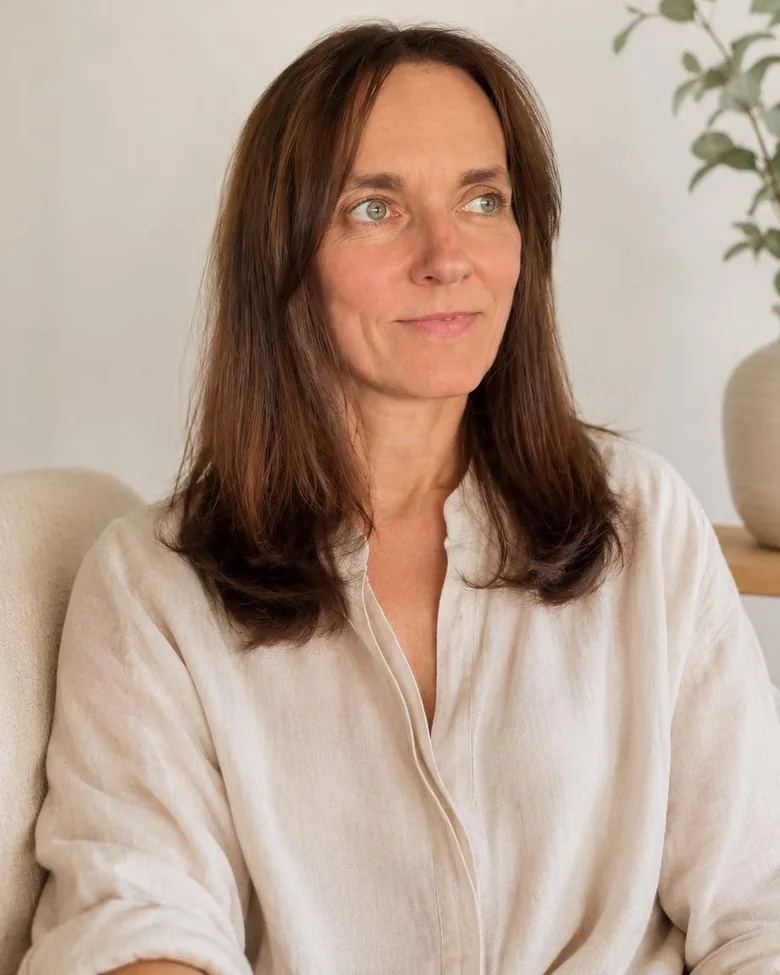
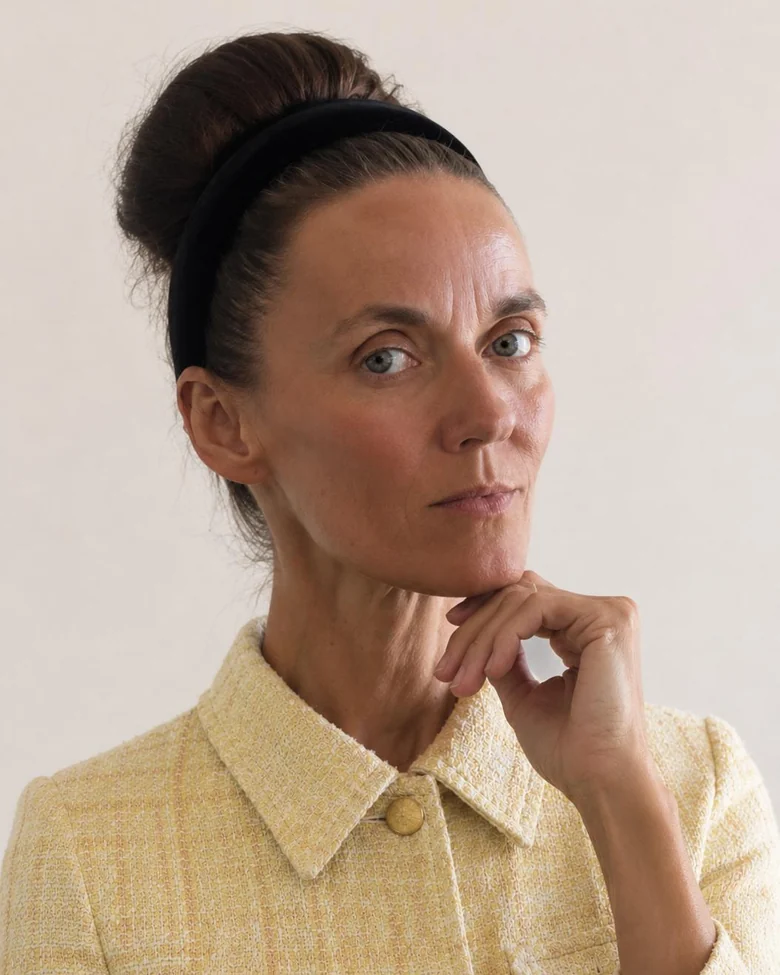
Card refresh + photo changes: pills, 2x2 creed, Lina 2, roomier mobile
- Conditions ("whole person") → elegant wrapping pills instead of sparse
  centered boxes (also fixes the cramped forced-2col phone layout)
- "What ALBA stands for" creed → balanced 2x2, no orphaned card
- "Good care begins" help cards → drop the SVG checkmarks, add the site's
  subtle bronze underline accent
- Phone: single-column help/creed, tighter pill spacing — uncramped
- Hero: remove Lina's photo, restore ALBA logo in the calling-card
- About portrait → new photo (Lina 2), cropped to 4:5

diff --git a/css/styles.css b/css/styles.css
@@ -2402,3 +2402,63 @@ body { font-size: var(--font-base); }
   aspect-ratio: 16 / 10;
 }
 .wellbeing-figure img { width: 100%; height: 100%; object-fit: cover; display: block; }
+
+/* ===================================================================
+   CARD REFRESH 2026-07-12 — balanced grids, icon-free cards,
+   roomier phone layout. Shared → applies to /, /lt/, /ru/.
+   =================================================================== */
+
+/* Conditions ("Care shaped around the whole person") — elegant pills
+   instead of sparse boxes; wrap naturally, no icons */
+.principles-grid {
+  display: flex;
+  flex-wrap: wrap;
+  gap: 0.7rem;
+  justify-content: center;
+}
+.principle {
+  min-height: 0;
+  padding: 0.72rem 1.45rem;
+  border-radius: 999px;
+  font-size: 1.14rem;
+}
+.principle::before { display: none; }
+.principle:hover {
+  transform: translateY(-3px);
+  background: linear-gradient(135deg, var(--bronze) 0%, var(--bronze-deep) 100%);
+  color: var(--cream-soft);
+  box-shadow: var(--shadow-md);
+}
+
+/* What ALBA stands for — balanced 2x2 instead of an orphaned 3+1 */
+.creed-list {
+  grid-template-columns: repeat(auto-fit, minmax(300px, 1fr));
+  max-width: 760px;
+  gap: 1rem;
+}
+
+/* Good care begins... — icon-free cards, subtle bronze underline (matches creed) */
+.help-item {
+  display: block;
+  position: relative;
+  padding: 1.4rem 1.5rem 1.7rem;
+}
+.help-item span { display: block; font-size: 1.28rem; }
+.help-item::after {
+  content: "";
+  position: absolute;
+  left: 1.5rem; bottom: 1.35rem;
+  width: 28px; height: 2px;
+  background: var(--bronze-deep);
+  opacity: 0.5;
+  border-radius: 2px;
+}
+
+/* Roomier, uncramped phone layout for the three card grids */
+@media (max-width: 600px) {
+  .help-grid, .creed-list { grid-template-columns: 1fr; gap: 0.85rem; }
+  .creed-list { max-width: none; }
+  .help-item, .creed-item { padding: 1.2rem 1.3rem; }
+  .principles-grid { gap: 0.55rem; }
+  .principle { font-size: 1.04rem; padding: 0.6rem 1.15rem; }
+}

diff --git a/index.html b/index.html
@@ -133,7 +133,7 @@
         </div>
         <div class="hero-visual reveal">
           <aside class="calling-card" aria-label="About Lina at a glance">
-            <img class="cc-photo" src="/Gallery/img/lina-portrait.webp" alt="Lina Simavičiūtė (Alba), professional live-in carer" width="780" height="975" loading="eager" decoding="async" />
+            <img class="cc-logo" src="/Gallery/Logo/alba-wellbeing-logo-web.png" alt="ALBA Wellbeing" width="991" height="813" loading="eager" decoding="async" />
             <p class="cc-name">Lina Simavičiūtė</p>
             <p class="cc-caption">Professional live-in carer · known as Alba</p>
             <p class="cc-lead">Together, creating a happy we.</p>
@@ -273,11 +273,11 @@
           <p class="section-intro">My role is never to take away independence. It is to help create the conditions where the person feels safe, respected and able to make their own right choices.</p>
         </div>
         <div class="help-grid">
-          <div class="help-item reveal"><span class="help-tick" aria-hidden="true"><svg viewBox="0 0 24 24" fill="none" stroke="currentColor" stroke-width="2.4" stroke-linecap="round" stroke-linejoin="round"><path d="M5 12l5 5 9-11"/></svg></span><span>Safe, comfortable and at home</span></div>
-          <div class="help-item reveal"><span class="help-tick" aria-hidden="true"><svg viewBox="0 0 24 24" fill="none" stroke="currentColor" stroke-width="2.4" stroke-linecap="round" stroke-linejoin="round"><path d="M5 12l5 5 9-11"/></svg></span><span>Respected, never a diagnosis or an age</span></div>
-          <div class="help-item reveal"><span class="help-tick" aria-hidden="true"><svg viewBox="0 0 24 24" fill="none" stroke="currentColor" stroke-width="2.4" stroke-linecap="round" stroke-linejoin="round"><path d="M5 12l5 5 9-11"/></svg></span><span>Understood and accepted</span></div>
-          <div class="help-item reveal"><span class="help-tick" aria-hidden="true"><svg viewBox="0 0 24 24" fill="none" stroke="currentColor" stroke-width="2.4" stroke-linecap="round" stroke-linejoin="round"><path d="M5 12l5 5 9-11"/></svg></span><span>Free to make their own choices</span></div>
-          <div class="help-item reveal"><span class="help-tick" aria-hidden="true"><svg viewBox="0 0 24 24" fill="none" stroke="currentColor" stroke-width="2.4" stroke-linecap="round" stroke-linejoin="round"><path d="M5 12l5 5 9-11"/></svg></span><span>Independent, for as long as possible</span></div>
+          <div class="help-item reveal"><span>Safe, comfortable and at home</span></div>
+          <div class="help-item reveal"><span>Respected, never a diagnosis or an age</span></div>
+          <div class="help-item reveal"><span>Understood and accepted</span></div>
+          <div class="help-item reveal"><span>Free to make their own choices</span></div>
+          <div class="help-item reveal"><span>Independent, for as long as possible</span></div>
         </div>
       </div>
     </section>

diff --git a/lt/index.html b/lt/index.html
@@ -130,7 +130,7 @@
         </div>
         <div class="hero-visual reveal">
           <aside class="calling-card" aria-label="Trumpai apie Liną">
-            <img class="cc-photo" src="/Gallery/img/lina-portrait.webp" alt="Lina Simavičiūtė (Alba), profesionali kartu gyvenanti slaugytoja" width="780" height="975" loading="eager" decoding="async" />
+            <img class="cc-logo" src="/Gallery/Logo/alba-wellbeing-logo-web.png" alt="ALBA Wellbeing" width="991" height="813" loading="eager" decoding="async" />
             <p class="cc-name">Lina Simavičiūtė</p>
             <p class="cc-caption">Profesionali kartu gyvenanti slaugytoja · žinoma kaip Alba</p>
             <p class="cc-lead">Kartu kuriame laimingą bendrystę.</p>
@@ -268,11 +268,11 @@
           <p class="section-intro">Mano vaidmuo niekada nėra atimti savarankiškumą. Jis yra padėti sukurti sąlygas, kuriomis žmogus jaučiasi saugus, gerbiamas ir gali priimti sau teisingus sprendimus.</p>
         </div>
         <div class="help-grid">
-          <div class="help-item reveal"><span class="help-tick" aria-hidden="true"><svg viewBox="0 0 24 24" fill="none" stroke="currentColor" stroke-width="2.4" stroke-linecap="round" stroke-linejoin="round"><path d="M5 12l5 5 9-11"/></svg></span><span>Saugus, jaukus ir kaip namie</span></div>
-          <div class="help-item reveal"><span class="help-tick" aria-hidden="true"><svg viewBox="0 0 24 24" fill="none" stroke="currentColor" stroke-width="2.4" stroke-linecap="round" stroke-linejoin="round"><path d="M5 12l5 5 9-11"/></svg></span><span>Gerbiamas, o ne diagnozė ar amžius</span></div>
-          <div class="help-item reveal"><span class="help-tick" aria-hidden="true"><svg viewBox="0 0 24 24" fill="none" stroke="currentColor" stroke-width="2.4" stroke-linecap="round" stroke-linejoin="round"><path d="M5 12l5 5 9-11"/></svg></span><span>Suprasti ir priimti</span></div>
-          <div class="help-item reveal"><span class="help-tick" aria-hidden="true"><svg viewBox="0 0 24 24" fill="none" stroke="currentColor" stroke-width="2.4" stroke-linecap="round" stroke-linejoin="round"><path d="M5 12l5 5 9-11"/></svg></span><span>Laisvas rinktis pats</span></div>
-          <div class="help-item reveal"><span class="help-tick" aria-hidden="true"><svg viewBox="0 0 24 24" fill="none" stroke="currentColor" stroke-width="2.4" stroke-linecap="round" stroke-linejoin="round"><path d="M5 12l5 5 9-11"/></svg></span><span>Savarankiškas kiek įmanoma ilgiau</span></div>
+          <div class="help-item reveal"><span>Saugus, jaukus ir kaip namie</span></div>
+          <div class="help-item reveal"><span>Gerbiamas, o ne diagnozė ar amžius</span></div>
+          <div class="help-item reveal"><span>Suprasti ir priimti</span></div>
+          <div class="help-item reveal"><span>Laisvas rinktis pats</span></div>
+          <div class="help-item reveal"><span>Savarankiškas kiek įmanoma ilgiau</span></div>
         </div>
       </div>
     </section>

diff --git a/ru/index.html b/ru/index.html
@@ -130,7 +130,7 @@
         </div>
         <div class="hero-visual reveal">
           <aside class="calling-card" aria-label="Кратко о Лине">
-            <img class="cc-photo" src="/Gallery/img/lina-portrait.webp" alt="Лина Симавичюте (Альба), профессиональная сиделка с проживанием" width="780" height="975" loading="eager" decoding="async" />
+            <img class="cc-logo" src="/Gallery/Logo/alba-wellbeing-logo-web.png" alt="ALBA Wellbeing" width="991" height="813" loading="eager" decoding="async" />
             <p class="cc-name">Lina Simavičiūtė</p>
             <p class="cc-caption">Профессиональная сиделка с проживанием · известна как Альба</p>
             <p class="cc-lead">Вместе создаём счастливое «мы».</p>
@@ -268,11 +268,11 @@
           <p class="section-intro">Моя роль никогда не в том, чтобы лишать самостоятельности. Она в том, чтобы помочь создать условия, в которых человек чувствует себя в безопасности, уважаемым и способным принимать верные для себя решения.</p>
         </div>
         <div class="help-grid">
-          <div class="help-item reveal"><span class="help-tick" aria-hidden="true"><svg viewBox="0 0 24 24" fill="none" stroke="currentColor" stroke-width="2.4" stroke-linecap="round" stroke-linejoin="round"><path d="M5 12l5 5 9-11"/></svg></span><span>В безопасности, в комфорте и как дома</span></div>
-          <div class="help-item reveal"><span class="help-tick" aria-hidden="true"><svg viewBox="0 0 24 24" fill="none" stroke="currentColor" stroke-width="2.4" stroke-linecap="round" stroke-linejoin="round"><path d="M5 12l5 5 9-11"/></svg></span><span>Уважаемым, а не диагнозом или возрастом</span></div>
-          <div class="help-item reveal"><span class="help-tick" aria-hidden="true"><svg viewBox="0 0 24 24" fill="none" stroke="currentColor" stroke-width="2.4" stroke-linecap="round" stroke-linejoin="round"><path d="M5 12l5 5 9-11"/></svg></span><span>Понятым и принятым</span></div>
-          <div class="help-item reveal"><span class="help-tick" aria-hidden="true"><svg viewBox="0 0 24 24" fill="none" stroke="currentColor" stroke-width="2.4" stroke-linecap="round" stroke-linejoin="round"><path d="M5 12l5 5 9-11"/></svg></span><span>Свободным в собственном выборе</span></div>
-          <div class="help-item reveal"><span class="help-tick" aria-hidden="true"><svg viewBox="0 0 24 24" fill="none" stroke="currentColor" stroke-width="2.4" stroke-linecap="round" stroke-linejoin="round"><path d="M5 12l5 5 9-11"/></svg></span><span>Самостоятельным как можно дольше</span></div>
+          <div class="help-item reveal"><span>В безопасности, в комфорте и как дома</span></div>
+          <div class="help-item reveal"><span>Уважаемым, а не диагнозом или возрастом</span></div>
+          <div class="help-item reveal"><span>Понятым и принятым</span></div>
+          <div class="help-item reveal"><span>Свободным в собственном выборе</span></div>
+          <div class="help-item reveal"><span>Самостоятельным как можно дольше</span></div>
         </div>
       </div>
     </section>

diff --git a/src/index.html b/src/index.html
@@ -130,7 +130,7 @@
         </div>
         <div class="hero-visual reveal">
           <aside class="calling-card" aria-label="About Lina at a glance">
-            <img class="cc-photo" src="/Gallery/img/lina-portrait.webp" alt="Lina Simavi&#269;i&#363;t&#279; (Alba), professional live-in carer" width="780" height="975" loading="eager" decoding="async" />
+            <img class="cc-logo" src="/Gallery/Logo/alba-wellbeing-logo-web.png" alt="ALBA Wellbeing" width="991" height="813" loading="eager" decoding="async" />
             <p class="cc-name">Lina Simavi&#269;i&#363;t&#279;</p>
             <p class="cc-caption">Professional live-in carer &middot; known as Alba</p>
             <p class="cc-lead">Together, creating a happy we.</p>
@@ -270,11 +270,11 @@
           <p class="section-intro">My role is never to take away independence. It is to help create the conditions where the person feels safe, respected and able to make their own right choices.</p>
         </div>
         <div class="help-grid">
-          <div class="help-item reveal"><span class="help-tick" aria-hidden="true"><svg viewBox="0 0 24 24" fill="none" stroke="currentColor" stroke-width="2.4" stroke-linecap="round" stroke-linejoin="round"><path d="M5 12l5 5 9-11"/></svg></span><span>Safe, comfortable and at home</span></div>
-          <div class="help-item reveal"><span class="help-tick" aria-hidden="true"><svg viewBox="0 0 24 24" fill="none" stroke="currentColor" stroke-width="2.4" stroke-linecap="round" stroke-linejoin="round"><path d="M5 12l5 5 9-11"/></svg></span><span>Respected, never a diagnosis or an age</span></div>
-          <div class="help-item reveal"><span class="help-tick" aria-hidden="true"><svg viewBox="0 0 24 24" fill="none" stroke="currentColor" stroke-width="2.4" stroke-linecap="round" stroke-linejoin="round"><path d="M5 12l5 5 9-11"/></svg></span><span>Understood and accepted</span></div>
-          <div class="help-item reveal"><span class="help-tick" aria-hidden="true"><svg viewBox="0 0 24 24" fill="none" stroke="currentColor" stroke-width="2.4" stroke-linecap="round" stroke-linejoin="round"><path d="M5 12l5 5 9-11"/></svg></span><span>Free to make their own choices</span></div>
-          <div class="help-item reveal"><span class="help-tick" aria-hidden="true"><svg viewBox="0 0 24 24" fill="none" stroke="currentColor" stroke-width="2.4" stroke-linecap="round" stroke-linejoin="round"><path d="M5 12l5 5 9-11"/></svg></span><span>Independent, for as long as possible</span></div>
+          <div class="help-item reveal"><span>Safe, comfortable and at home</span></div>
+          <div class="help-item reveal"><span>Respected, never a diagnosis or an age</span></div>
+          <div class="help-item reveal"><span>Understood and accepted</span></div>
+          <div class="help-item reveal"><span>Free to make their own choices</span></div>
+          <div class="help-item reveal"><span>Independent, for as long as possible</span></div>
         </div>
       </div>
     </section>